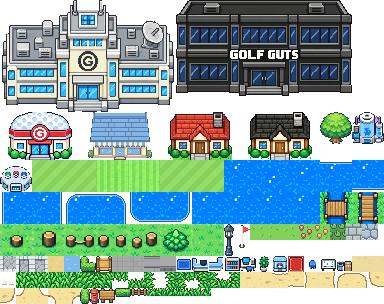
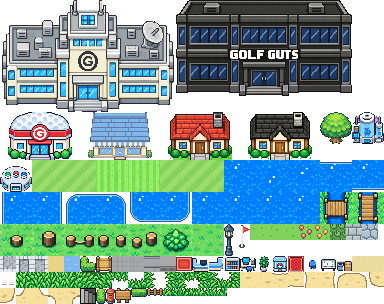
屋内の出入口を赤いドアマットに（旧アート・画像タイルとも）。じぶんの家の出口は下り階段に
Claude-Session: https://claude.ai/code/session_018VDSYCPciSbMvR8kKaJDnr

Changed region(s): [[0.1875, 0.9474, 0.5938, 1.0], [0.4375, 0.8289, 0.5, 0.9178]]

diff --git a/js/data.js b/js/data.js
@@ -79,14 +79,14 @@ const DATA = {
   // ---- タイル ----
   // 屋外: G芝 T草むら（ラフ） F花 W木 P道（カート道） ~水 B橋 #壁 N窓 R屋根 ^屋根端 D扉 S看板 =柵 L街灯 H生垣
   // ゴルフ場: gフェアウェイ nグリーン Kバンカー Yピンフラッグ yティーマーカー
-  // 屋内: .床 X壁 b寝台 t TV d机 s棚 p植物 m出口マット c絨毯 M装置 C受付 O台
+  // 屋内: .床 X壁 b寝台 t TV d机 s棚 p植物 m出口マット v階段（出口） c絨毯 M装置 C受付 O台
   TILE_ART: {
     G: 'grass', T: 'tall', F: 'flower', W: 'tree', P: 'path', '~': 'water', B: 'bridge',
     '#': 'wall', N: 'window', R: 'roof', '^': 'roof_edge', D: 'door', S: 'sign', '=': 'fence', L: 'lamp', H: 'hedge',
     A: 'lab_roof', a: 'lab_roof_dish', E: 'lab_wall', e: 'lab_window', J: 'lab_logo', I: 'lab_door',
-    '.': 'floor', X: 'wallin', b: 'bed', t: 'tv', d: 'desk', s: 'shelf', p: 'plant', m: 'mat', c: 'carpet', M: 'machine', C: 'counter', O: 'table',
+    '.': 'floor', X: 'wallin', b: 'bed', t: 'tv', d: 'desk', s: 'shelf', p: 'plant', m: 'mat', v: 'stairs', c: 'carpet', M: 'machine', C: 'counter', O: 'table',
   },
-  WALKABLE: new Set(['G', 'T', 'F', 'P', 'B', 'D', 'I', 'Q', '.', 'm', 'c', 'g', 'n', 'K', 'y']),   // 一枚絵マップの '#' は進めない
+  WALKABLE: new Set(['G', 'T', 'F', 'P', 'B', 'D', 'I', 'Q', '.', 'm', 'v', 'c', 'g', 'n', 'K', 'y']),   // 一枚絵マップの '#' は進めない
   // 置き物（タイル画像の名前）：w,h はマス数、door は左上からのドアの位置（そこだけ通れる）
   OBJECTS: { in_machine: { w: 2, h: 2, door: [-1, -1] }, in_table: { w: 3, h: 2, door: [-1, -1] }, house: { w: 5, h: 3, door: [2, 2] }, house2: { w: 5, h: 3, door: [2, 2] }, heal: { w: 5, h: 3, door: [2, 2] }, shop: { w: 5, h: 3, door: [2, 2] }, lab: { w: 11, h: 7, door: [5, 6] }, golfguts: { w: 11, h: 7, door: [5, 6] } },
   VOID_ART: 'wallin',
@@ -101,7 +101,7 @@ const DATA = {
         'X.d......X',
         'X........X',
         'Xp.......X',
-        'X....m...X',
+        'X....v...X',
         'XXXXXXXXXX',
       ],
       events: [

diff --git a/js/gfx.js b/js/gfx.js
@@ -223,11 +223,17 @@ const Gfx = (() => {
       'BBBBBBmmBBBBBBBB', 'BBBBBRRRRRBBBBBB', 'BBBBBrrrrrBBBBBB', 'BBBBBrrrrrBBBBBB',
       'BBBBBRrrrRBBBBBB', 'BBBBBRRRRRBBBBBB', 'BBBBBBBBBBBBBBBB', 'BBBBBBBBBBBBBBBB',
     ],
-    mat: [
-      'BBBBBBBBBBBBBBBB', 'BBBBBBBBBBBBBBBB', 'BBKKKKKKKKKKKKBB', 'BBKjjjjjjjjjjKBB',
-      'BBKjKKKKKKKKjKBB', 'BBKjKjjjjjjKjKBB', 'BBKjKjjjjjjKjKBB', 'BBKjKjjjjjjKjKBB',
-      'BBKjKjjjjjjKjKBB', 'BBKjKKKKKKKKjKBB', 'BBKjjjjjjjjjjKBB', 'BBKKKKKKKKKKKKBB',
-      'BBBBBBBBBBBBBBBB', 'BBBBBBBBBBBBBBBB', 'BBBBBBBBBBBBBBBB', 'BBBBBBBBBBBBBBBB',
+    mat: [ // 赤いドアマット（出入口）
+      'BBBBBBBBBBBBBBBB', '################', '#oooooooooooooo#', '#orrrrrrrrrrrro#',
+      '#orRRRRRRRRRRro#', '#orRrrrrrrrrRro#', '#orRrorororrRro#', '#orRrrorororRro#',
+      '#orRrorororrRro#', '#orRrrrrrrrrRro#', '#orRRRRRRRRRRro#', '#orrrrrrrrrrrro#',
+      '#oooooooooooooo#', '################', 'BBBBBBBBBBBBBBBB', 'BBBBBBBBBBBBBBBB',
+    ],
+    stairs: [ // 下り階段（じぶんの家の出口）
+      '################', '#VVV#nnn#nnn#nn#', '#VVV#####nnn#nn#', '#VVV#ddd#nnn#nn#',
+      '#VVV#ddd#####nn#', '#VVV#ddd#DDD#nn#', '#VVV#ddd#DDD####', '#VVV#ddd#DDD#AA#',
+      '#VVV#ddd#DDD#AA#', '#VVV#ddd#DDD#AA#', '#VVV#ddd#DDD#AA#', '#VVV#ddd#DDD#AA#',
+      '#VVV#ddd#DDD#AA#', '#VVV#ddd#DDD#AA#', '#VVV#ddd#DDD#AA#', '################',
     ],
     table: [ // 研究所のテーブル（モンスターボールを置く）
       'BBBBBBBBBBBBBBBB', 'BBBBBBBBBBBBBBBB', 'BKKKKKKKKKKKKKKB', 'BKeeeeeeeeeeeeKB',

diff --git a/js/scenes/field.js b/js/scenes/field.js
@@ -551,6 +551,7 @@ class FieldScene {
       case 's': ctx.drawImage(Tiles.get('in_wallbase'), px, py); ctx.drawImage(Tiles.get('in_shelf'), px, py); return true;
       case '.': floor(); return true;
       case 'm': return over('in_mat');
+      case 'v': return over('in_stairs');
       case 'c': return over('in_carpet');
       case 'C': return over('in_counter');
       case 'n': return over('in_counter_c');

diff --git a/tools/indoor-mat-stairs.py b/tools/indoor-mat-stairs.py
@@ -1,0 +1,33 @@
+#!/usr/bin/env python3
+"""屋内の出入口タイルを描き直す：in_mat（赤いドアマット）と in_stairs（下り階段）を assets/tiles.png に入れる"""
+import json
+from PIL import Image, ImageDraw
+import os; os.chdir('/home/claude/gb-rpg-skeleton')
+# ---- 赤いドアマット（FRLG 風：濃い輪郭・明るい縁・赤い面）----
+mat = Image.new('RGBA', (16, 16), (0, 0, 0, 0)); d = ImageDraw.Draw(mat)
+d.rectangle((0, 1, 15, 14), fill=(122, 34, 34, 255))          # 輪郭（上下は1ドット内側）
+d.rectangle((1, 2, 14, 13), fill=(250, 168, 150, 255))        # 明るい縁
+d.rectangle((2, 3, 13, 12), fill=(226, 72, 60, 255))          # 赤い面
+d.rectangle((3, 4, 12, 11), outline=(200, 52, 46, 255))       # 面の内側の線
+for x in range(4, 12, 2): d.point((x, 7), (236, 96, 84, 255)); d.point((x + 1, 8), (236, 96, 84, 255))   # 織り目
+# ---- 下り階段（添付の見本：左が明るく、右へ行くほど暗い段。右上は影）----
+st = Image.new('RGBA', (16, 16), (0, 0, 0, 0)); d = ImageDraw.Draw(st)
+d.rectangle((0, 0, 15, 15), fill=(16, 16, 16, 255))
+cols = [(1, 3, 1, 190), (5, 7, 3, 158), (9, 11, 5, 124), (13, 14, 7, 112)]   # x0, x1, 段の上端 y, 明るさ
+d.rectangle((1, 1, 14, 14), fill=(64, 64, 64, 255))                            # 奥の影
+for x0, x1, y, g in cols: d.rectangle((x0, y, x1, 14), fill=(g, g, g, 255))
+for x0, x1, y, g in cols[1:]: d.rectangle((x0, y - 1, x1, y - 1), fill=(16, 16, 16, 255))   # 段の黒い縁
+tiles = {'in_mat': mat, 'in_stairs': st}
+old = Image.open('assets/tiles.png').convert('RGBA'); meta = json.load(open('assets/tiles.json'))
+all_t = {}; scales = {k: v[4] for k, v in meta.items() if len(v) > 4}
+for k, v in meta.items(): x, y, w, h = v[:4]; all_t[k] = old.crop((x, y, x + w, y + h))
+all_t.update(tiles)
+items = sorted(all_t.items(), key=lambda kv: (-kv[1].height, -kv[1].width))
+W = 384; x = y = rowh = 0; meta = {}
+sheet = Image.new('RGBA', (W, 2048), (0, 0, 0, 0))
+for k, tt in items:
+    if x + tt.width > W: x = 0; y += rowh; rowh = 0
+    sheet.paste(tt, (x, y)); meta[k] = [x, y, tt.width, tt.height] + ([scales[k]] if k in scales else []); x += tt.width; rowh = max(rowh, tt.height)
+sheet = sheet.crop((0, 0, W, y + rowh)); sheet.save('assets/tiles.png'); json.dump(meta, open('assets/tiles.json', 'w'))
+pv = Image.new('RGBA', (16 * 2 + 4, 16), (127, 211, 90, 255)); pv.alpha_composite(mat, (0, 0)); pv.alpha_composite(st, (20, 0))
+pv.resize((pv.width * 8, pv.height * 8), Image.NEAREST).save('/tmp/claude-0/-home-claude/1369009a-e915-5878-af46-a39f51abb06a/scratchpad/mat_stairs.png'); print('ok')
